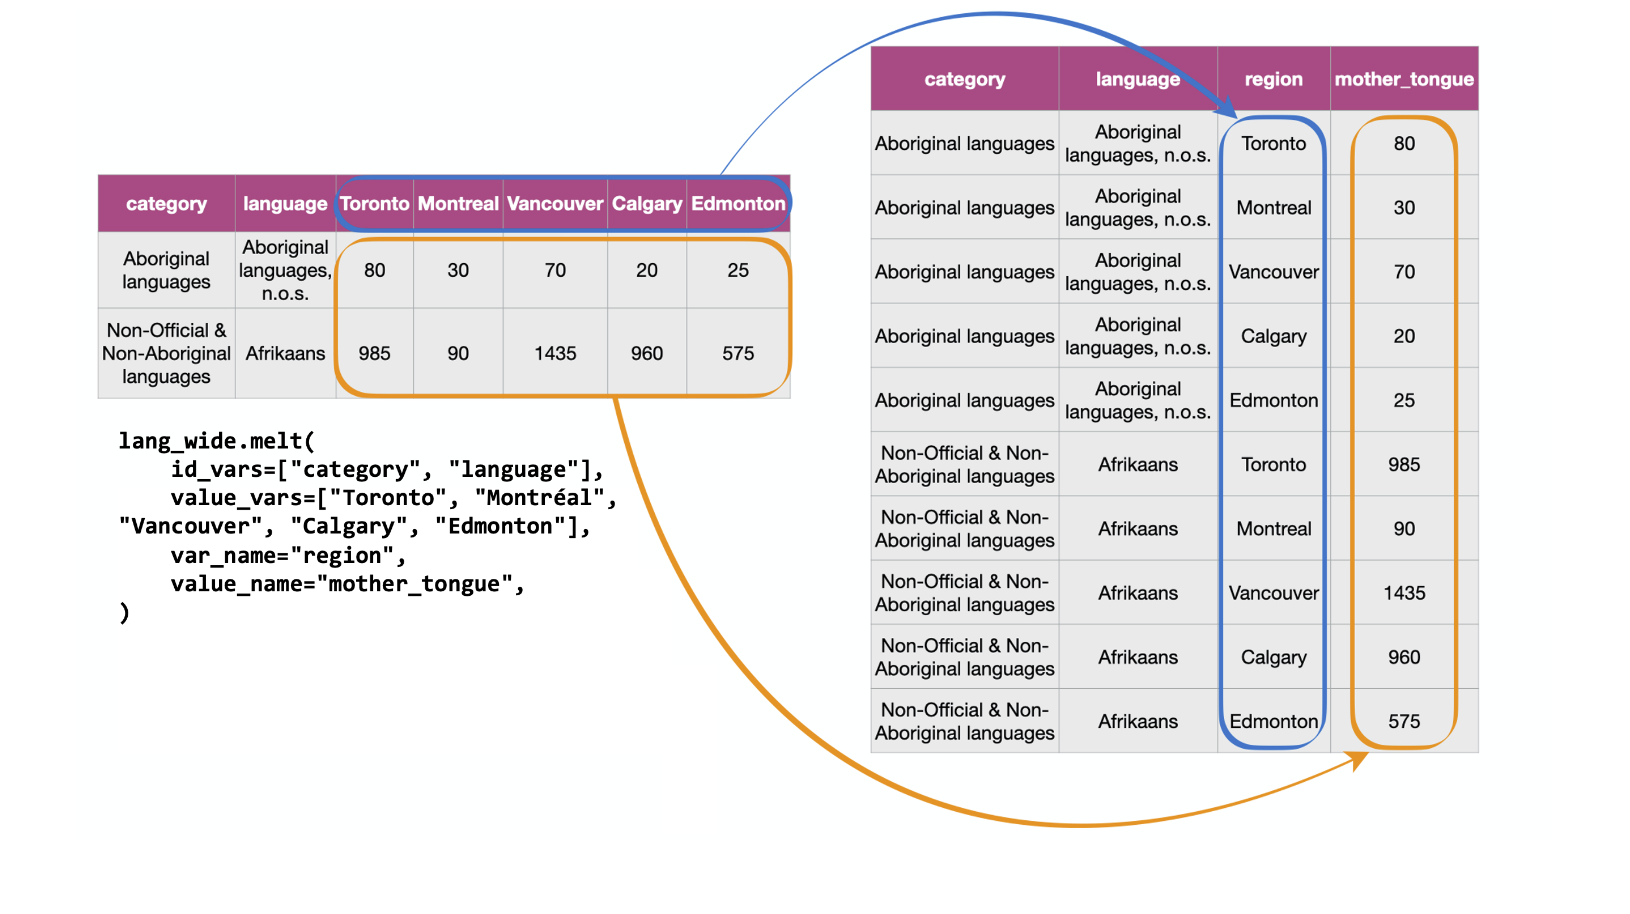
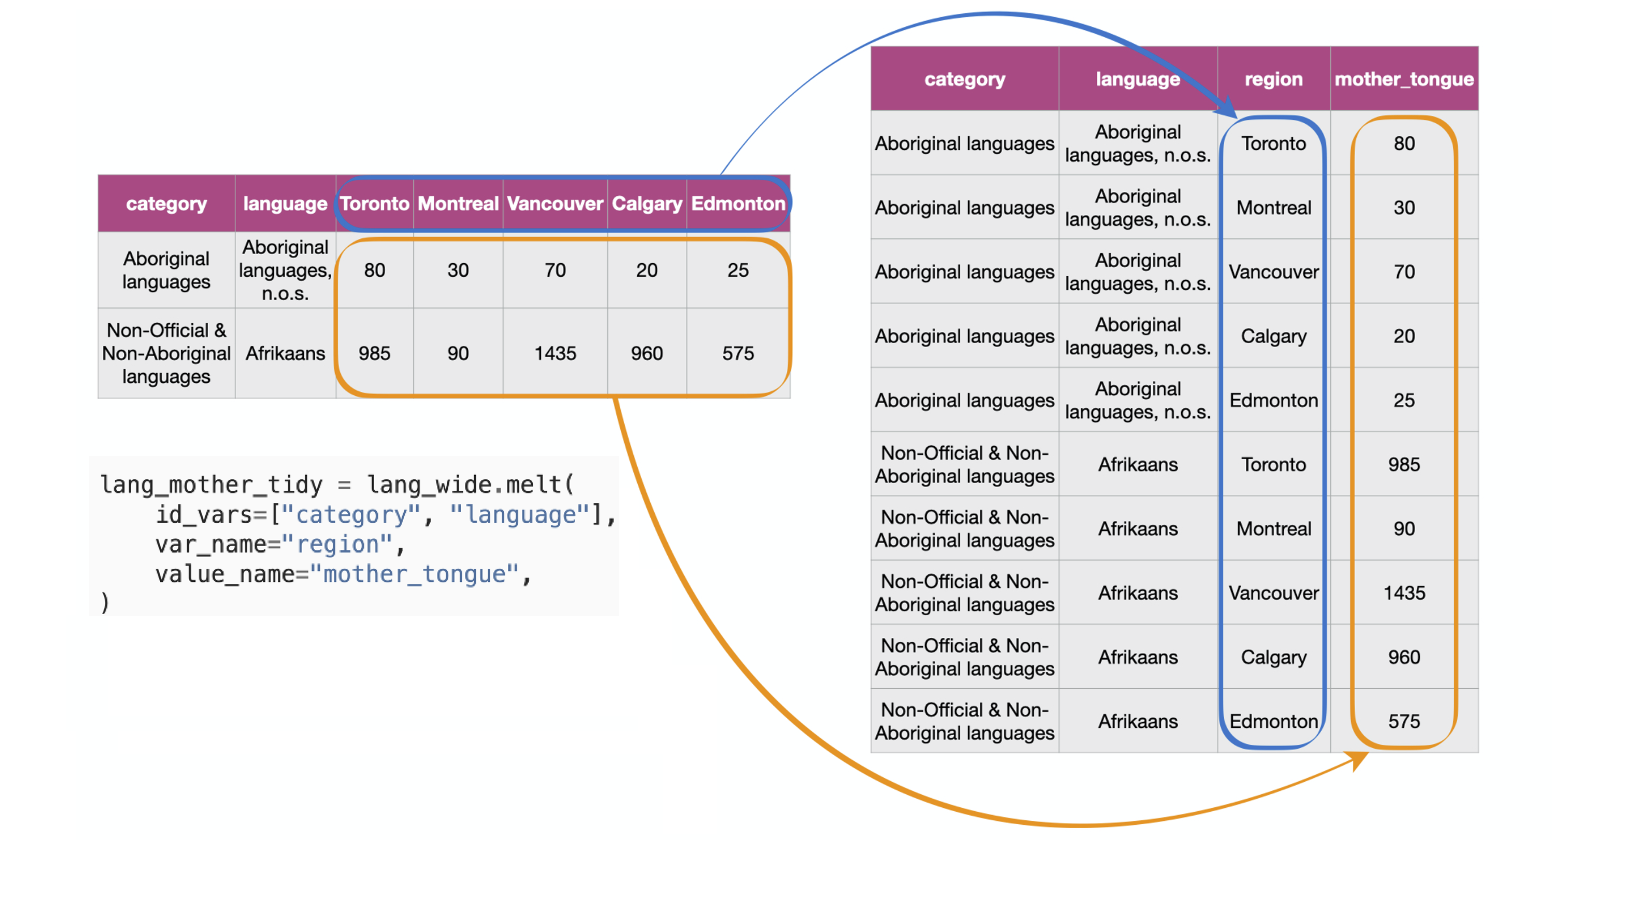
figure polishing for ch3

Changed region(s): [[0.0613, 0.4595, 0.3681, 0.674]]

diff --git a/source/wrangling.md b/source/wrangling.md
@@ -194,7 +194,7 @@ It is important in Python to make sure you represent your data with the correct 
 Many of the `pandas` functions we use in this book treat
 the various data types differently. You should use `int` and `float` types
 to represent numbers and perform arithmetic. The `int` type is for integers that have no decimal point,
-while the `float` type is for numbers that have a decimal point. 
+while the `float` type is for numbers that have a decimal point.
 The `bool` type are boolean variables that can only take on one of two values: `True` or `False`.
 The `string` type is used to represent data that should
 be thought of as "text", such as words, names, paths, URLs, and more.
@@ -479,8 +479,6 @@ Going from wide to long with the `melt` function.
 in the `melt` function to accomplish this data transformation.
 
 +++ {"tags": []}
-
-**(FIGURE UPDATE NEEDED TO MATCH THE CODE BELOW)**
 
 ```{figure} img/wrangling/pandas_melt_args_labels.png
 :name: fig:img-pivot-longer
@@ -986,7 +984,7 @@ with higher numbers of people who speak it as their primary language at home
 compared to French in Montréal, then we can use `[]` to obtain rows
 where the value of `most_at_home` is greater than
 {glue:text}`most_french`. We use the `>` symbol to look for values *above* a threshold,
-and the `<` symbol to look for values *below* a threshold. The `>=` and `<=` 
+and the `<` symbol to look for values *below* a threshold. The `>=` and `<=`
 symbols similarly look for *equal to or above* a threshold and *equal to or below* a threshold.
 
 ```{code-cell} ipython3
@@ -1448,14 +1446,14 @@ so that we can convert them from `int64` to `int32`. We will use what is called
 a `lambda` function in python; `lambda` functions are just regular functions,
 except that you don't need to give them a name.
 That means you can pass them as an argument into `apply` easily!
-Let's consider a simple example of a `lambda` function that 
+Let's consider a simple example of a `lambda` function that
 multiplies a number by two.
 ```{code-cell} ipython3
 lambda x: 2*x
 ```
-We define a `lambda` function in the following way. We start with the syntax `lambda`, which is a special word 
+We define a `lambda` function in the following way. We start with the syntax `lambda`, which is a special word
 that tells Python "what follows is
-a function." Following this, we then state the name of the arguments of the function. 
+a function." Following this, we then state the name of the arguments of the function.
 In this case, we just have one argument named `x`. After the list of arguments, we put a
 colon `:`. And finally after the colon are the instructions: take the value provided and multiply it by 2.
 Let's call our shiny new `lambda` function with the argument `2` (so the output should be `4`).
@@ -1463,13 +1461,13 @@ Just like a regular function, we pass its argument between parentheses `()` symb
 ```{code-cell} ipython3
 (lambda x: 2*x)(2)
 ```
-> **Note:** Because we didn't give the `lambda` function a name, we have to surround it with 
+> **Note:** Because we didn't give the `lambda` function a name, we have to surround it with
 > parentheses too if we want to call it. Otherwise, if we wrote something like `lambda x: 2*x(2)`, Python would get confused
 > and think that `(2)` was part of the instructions that comprise the `lambda` function.
 > As long as we don't want to call the `lambda` function ourselves, we don't need those parentheses. For example,
-> we can pass a `lambda` function as an argument to `apply` without any parentheses. 
+> we can pass a `lambda` function as an argument to `apply` without any parentheses.
 
-Returning to our example, let's use `apply` to convert the columns `"mother_tongue":"lang_known"` 
+Returning to our example, let's use `apply` to convert the columns `"mother_tongue":"lang_known"`
 to `int32`. To accomplish this we create a `lambda` function that takes one argument---a single column
 of the data frame, which we will name `col`---and apply the `astype` method to it.
 Then the `apply` method will use that `lambda` function on every column we specify via `loc[]`.
@@ -1514,8 +1512,8 @@ region_lang_nums.apply(max, axis=1)
 
 We see that we get a column, which is the maximum value between `mother_tongue`,
 `most_at_home`, `most_at_work` and `lang_known` for each language
-and region. It is often the case that we want to include a column result 
-from using `apply` row-wise as a new column in the data frame, so that we can make 
+and region. It is often the case that we want to include a column result
+from using `apply` row-wise as a new column in the data frame, so that we can make
 plots or continue our analysis. To make this happen,
 we will use `assign` to create a new column. This is discussed in the next section.
 
@@ -1540,7 +1538,7 @@ with the new column added to it.
 
 To use the `assign` method, we specify one argument for each column we want to create.
 In this case we want to create one new column named `maximum`, so the argument
-to `assign` begins with `maximum = `. 
+to `assign` begins with `maximum = `.
 Then after the `=`, we specify what the contents of that new column
 should be. In this case we use `apply` just as we did in the previous section to give us the maximum values.
 Remember to specify `axis=1` in the `apply` method so that we compute the row-wise maximum value.
@@ -1550,7 +1548,7 @@ region_lang.assign(
   maximum = region_lang_nums.apply(max, axis=1)
 )
 ```
-This gives us a new data frame that looks like the `region_lang` data frame, 
+This gives us a new data frame that looks like the `region_lang` data frame,
 except that it has an additional column named `maximum`.
 The `maximum` column contains
 the maximum value between `mother_tongue`,
@@ -1575,7 +1573,7 @@ glue("toronto_popn", "{0:,.0f}".format(toronto_popn))
 glue("prop_eng_tor", "{0:.2f}".format(number_most_home / toronto_popn))
 ```
 
-As another example, we might ask the question: "What proportion of 
+As another example, we might ask the question: "What proportion of
 the population reported English as their primary language at home in the 2016 census?"
 For example, in Toronto, {glue:text}`number_most_home` people reported
 speaking English as their primary language at home, and the
@@ -1604,36 +1602,32 @@ english_lang
 ```
 
 Okay, now we have a data frame that pertains only to the English language
-and the five cities mentioned earlier. 
+and the five cities mentioned earlier.
 In order to compute the proportion of the population speaking English in each of these cities,
 we need to add the population data from the `five_cities` data frame.
 ```{code-cell} ipython3
 five_cities
 ```
-The data frame above shows that the populations of the five cities in 2016 were 
+The data frame above shows that the populations of the five cities in 2016 were
 5928040 (Toronto), 4098927 (Montréal),  2463431 (Vancouver), 1392609 (Calgary), and 1321426 (Edmonton).
-We will add this information to our data frame in a new column named `city_pops` by using `assign`. 
-Once again we specify the new column name (`city_pops`) as the argument, followed by the equal symbol `=`, 
+We will add this information to our data frame in a new column named `city_pops` by using `assign`.
+Once again we specify the new column name (`city_pops`) as the argument, followed by the equal symbol `=`,
 and finally the data in the column.
 Note that the order of the rows in the `english_lang` data frame is Montréal, Toronto, Calgary, Edmonton, Vancouver.
 So we will create a column called `city_pops` where we list the populations of those cities in that
 order, and add it to our data frame.
 Also note that we write `english_lang = ` on the left so that the newly created data frame overwrites our
-old `english_lang` data frame; remember that by default, like other `pandas` functions, `assign` does not 
+old `english_lang` data frame; remember that by default, like other `pandas` functions, `assign` does not
 modify the original data frame directly!
 ```{code-cell} ipython3
 :tags: ["output_scroll"]
 english_lang = english_lang.assign(
-				city_pops=[4098927, 
-						   5928040, 
-						   1392609, 
-						   1321426, 
-						   2463431
-				])
+  city_pops=[4098927, 5928040, 1392609, 1321426, 2463431]
+)
 english_lang
 ```
 > **Note**: Inserting data manually in this is generally very error-prone and is not recommended.
-> We do it here to demonstrate another usage of `assign` that does not involve `apply`. 
+> We do it here to demonstrate another usage of `assign` that does not involve `apply`.
 > But in more advanced data wrangling,
 > one would solve this problem in a less error-prone way using
 > the `merge` function, which lets you combine two data frames. We will show you an
@@ -1645,8 +1639,8 @@ proportion of people who speak English the most at home by taking the ratio of t
 ```{code-cell} ipython3
 :tags: ["output_scroll"]
 english_lang.assign(
-          proportion=english_lang["most_at_home"]/english_lang["city_pops"]
-      )
+    proportion=english_lang["most_at_home"]/english_lang["city_pops"]
+)
 ```
 
 
@@ -1737,7 +1731,7 @@ right order, and it could be easy to make a mistake this way. An alternative app
 is to (1) create a new, empty data frame, (2) use `assign` to assign the city names and populations in that
 data frame, and (3) use `merge` to combine the two data frames, recognizing that the "regions" are the same.
 
-We create a new, empty data frame by calling `pd.DataFrame` with no arguments. 
+We create a new, empty data frame by calling `pd.DataFrame` with no arguments.
 We then use `assign` to add the city names in a column called `"region"`
 and their populations in a column called `"population"`.
 ```{code-cell} ipython3
